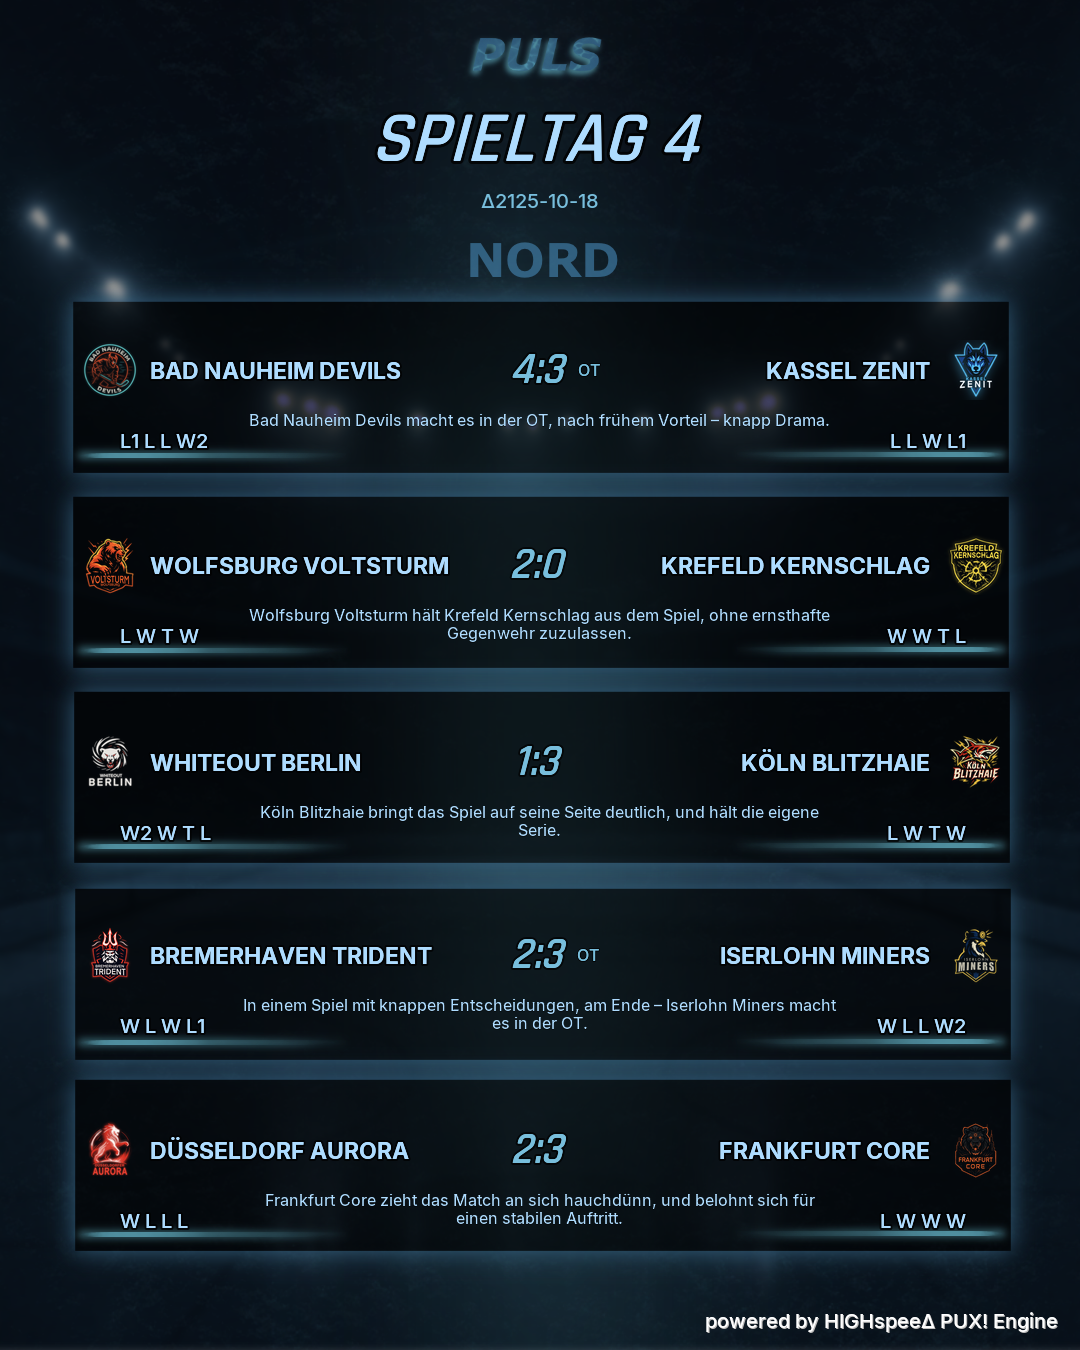
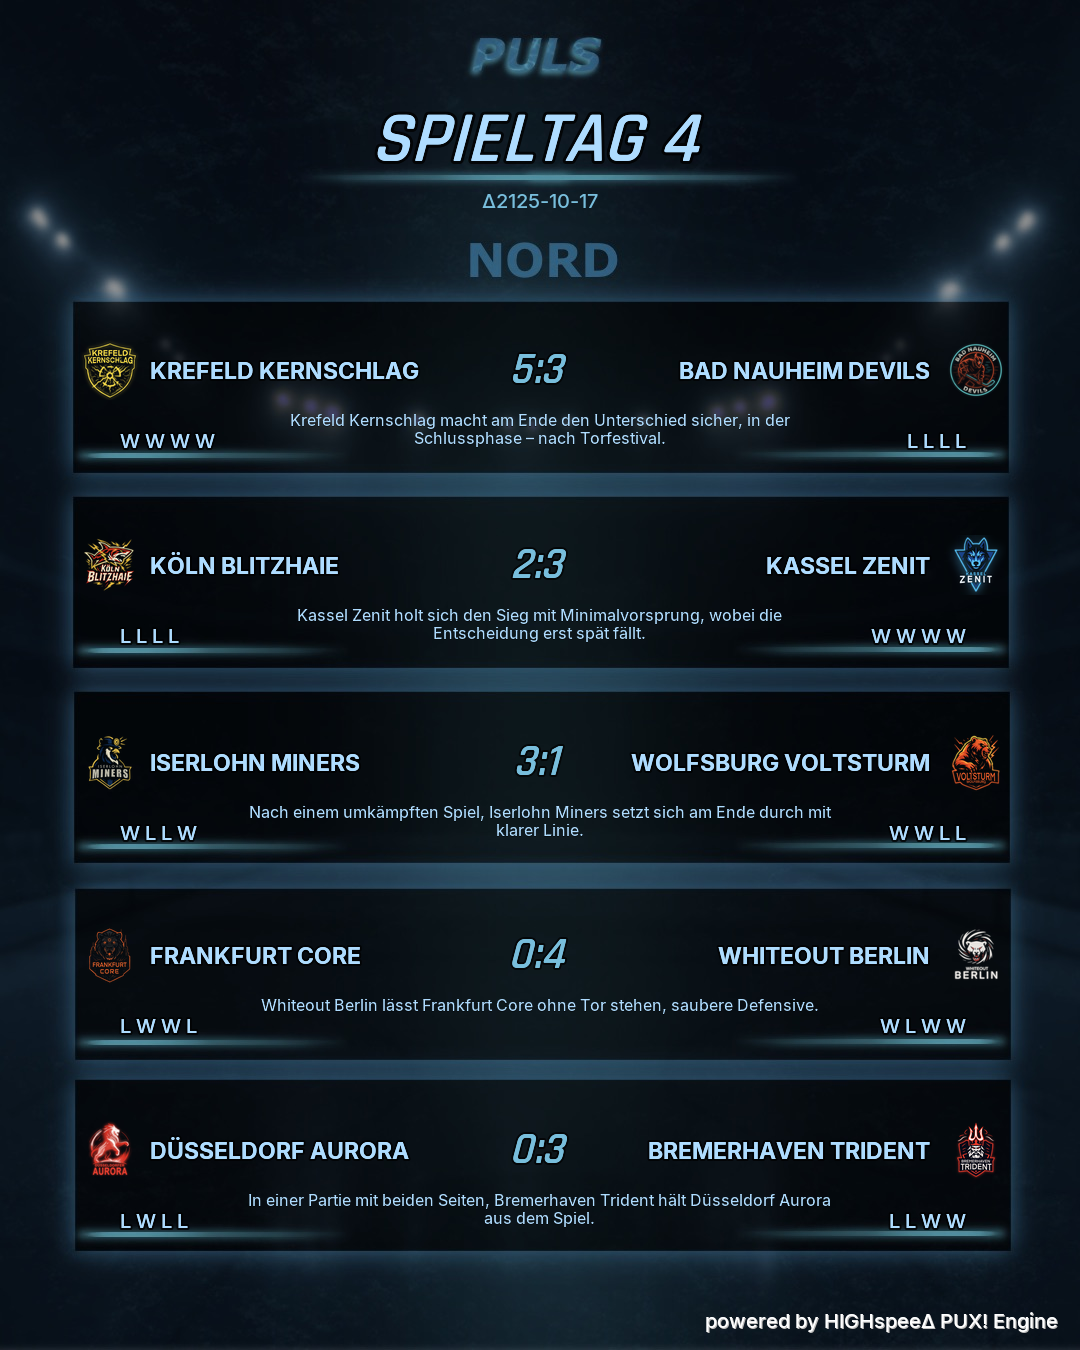
Schriftart eingeführt

diff --git a/src/modules/puls_renderer/results_renderer.py b/src/modules/puls_renderer/results_renderer.py
@@ -373,10 +373,11 @@ def render_matchday_results_overview(
     # Fonts (wie bei euch)
     font_bold_path = paths.fonts_dir / "Inter-Bold.ttf"
     font_med_path = paths.fonts_dir / "Inter-Medium.ttf"
+    font_display_path = paths.fonts_dir / "PULS_Schriftart.ttf"
 
     # Größen (MVP)
     team_size = 23
-    score_size = 44
+    score_size = 60
     spieltag_size = 72
     date_size = 20
     blurb_size = 16
@@ -387,9 +388,9 @@ def render_matchday_results_overview(
     saison = int(spieltag_data.get("saison") or 0)
     spieltag = int(spieltag_data.get("spieltag") or 0)
 
-    # Header: "SPIELTAG X" wie bisher (damit Template passt)
+    # Header: "SPIELTAG X" mit PULS_Schriftart.ttf
     header_text = f"SPIELTAG {spieltag}"
-    font_spieltag = ImageFont.truetype(str(font_bold_path), size=spieltag_size)
+    font_spieltag = _load_font(font_display_path, spieltag_size)
     draw_text_fx(
         img,
         (layout.header_center_x, layout.header_spieltag_y),
@@ -431,7 +432,7 @@ def render_matchday_results_overview(
 
     # Anpassen für separate Renderings
     team_font = _load_font(font_bold_path, team_size)
-    score_font = _load_font(font_bold_path, score_size)
+    score_font = _load_font(font_display_path, score_size)
     blurb_font = _load_font(font_med_path, blurb_size)
 
     # Textblock rechts: Platz (MVP) – musst du ggf. feinjustieren

diff --git a/src/modules/puls_renderer/renderer.py b/src/modules/puls_renderer/renderer.py
@@ -579,6 +579,7 @@ def render_matchday_overview(
     # Fonts
     font_bold_path = fonts_dir / "Inter-Bold.ttf"
     font_med_path = fonts_dir / "Inter-Medium.ttf"
+    font_display_path = fonts_dir / "PULS_Schriftart.ttf"
 
     # Base sizes
     team_size = 23
@@ -593,7 +594,7 @@ def render_matchday_overview(
 
     # Header
     header_text = f"SPIELTAG {spieltag}"
-    font_spieltag = _fit_text(draw, header_text, font_bold_path, max_width=900, start_size=spieltag_size, min_size=34)
+    font_spieltag = _fit_text(draw, header_text, font_display_path, max_width=900, start_size=spieltag_size, min_size=34)
 
     if header_fx == "clean":
         # Knackig, keine Matsch-Glow, kein Noise

diff --git a/tools/puls_renderer/renderer.py b/tools/puls_renderer/renderer.py
@@ -579,6 +579,7 @@ def render_matchday_overview(
     # Fonts
     font_bold_path = fonts_dir / "Inter-Bold.ttf"
     font_med_path = fonts_dir / "Inter-Medium.ttf"
+    font_display_path = fonts_dir / "PULS_Schriftart.ttf"
 
     # Base sizes
     team_size = 23
@@ -593,7 +594,7 @@ def render_matchday_overview(
 
     # Header
     header_text = f"SPIELTAG {spieltag}"
-    font_spieltag = _fit_text(draw, header_text, font_bold_path, max_width=900, start_size=spieltag_size, min_size=34)
+    font_spieltag = _fit_text(draw, header_text, font_display_path, max_width=900, start_size=spieltag_size, min_size=34)
 
     if header_fx == "clean":
         # Knackig, keine Matsch-Glow, kein Noise
